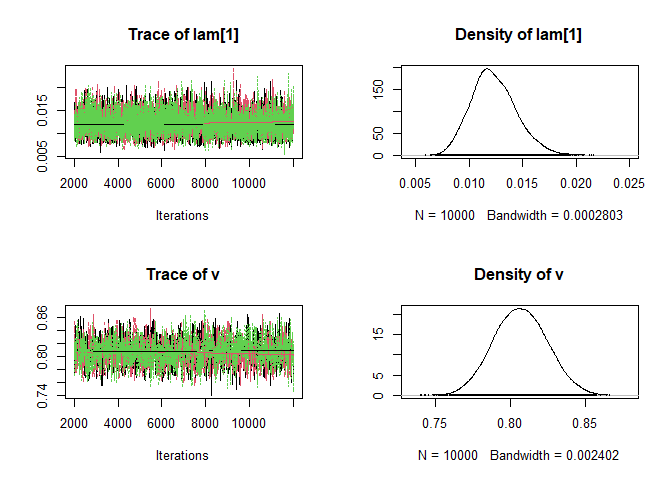
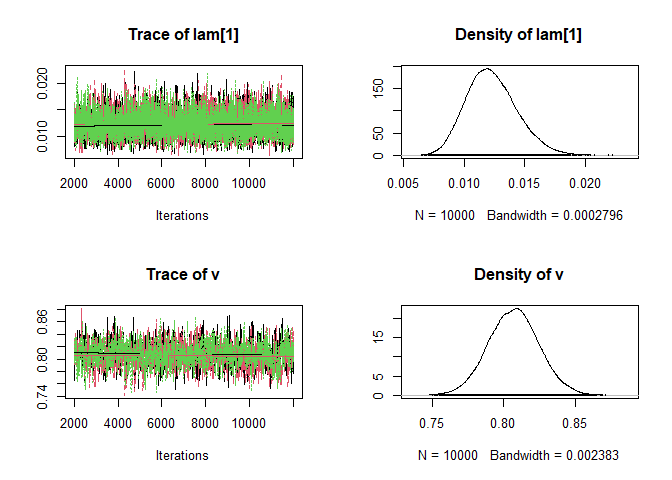
Third update.

diff --git a/website_traffic_analysis.md b/website_traffic_analysis.md
@@ -10,6 +10,8 @@ header-includes:
   - \usepackage{fontspec}
   - \newfontfamily\urlfont{Roboto Mono}
 bibliography: bayesianbib.bib
+link_citations: true
+
 ---
 
 
@@ -95,7 +97,7 @@ The mean as well as the standard deviation of the residuals for the 5 continents
 
 
 ```
-## Mean residuals: 7.408088 3.143734 -2.709144 19.73206 -21.34391
+## Mean residuals: 6.7456 3.210117 -2.748751 19.64922 -21.32905
 ```
 
 ```
@@ -112,13 +114,13 @@ We also used the posterior samples to get Monte Carlo estimates of the mean aver
 
 ```
 ##           0%           5%          10%          15%          20%          25% 
-## 4.925311e+00 5.226436e+01 6.729470e+01 7.889940e+01 8.867935e+01 9.797797e+01 
+## 2.024426e+00 5.035039e+01 6.479379e+01 7.679248e+01 8.722426e+01 9.669675e+01 
 ##          30%          35%          40%          45%          50%          55% 
-## 1.072029e+02 1.164754e+02 1.259678e+02 1.358672e+02 1.460714e+02 1.576500e+02 
+## 1.060290e+02 1.154505e+02 1.248197e+02 1.354065e+02 1.461793e+02 1.579984e+02 
 ##          60%          65%          70%          75%          80%          85% 
-## 1.708787e+02 1.861141e+02 2.047261e+02 2.292162e+02 2.629486e+02 3.134105e+02 
+## 1.716290e+02 1.875620e+02 2.064360e+02 2.320105e+02 2.648734e+02 3.167635e+02 
 ##          90%          95%         100% 
-## 4.017439e+02 6.420759e+02 1.101838e+10
+## 4.063484e+02 6.638312e+02 1.771012e+14
 ```
 
 ![](website_traffic_analysis_files/figure-html/unnamed-chunk-11-1.png)<!-- -->
@@ -155,7 +157,7 @@ As was the case for the Weibull model, convergence was observed after 1e4 iterat
 
 
 ```
-## Mean residuals: 3.107182 0.5004386 0.2314226 4.925634 0.8873818
+## Mean residuals: 2.710376 0.5501907 0.2144954 5.041632 0.7909642
 ```
 
 ```
@@ -167,13 +169,13 @@ The posterior samples were again drawn to get Monte Carlo estimates of the mean 
 
 ```
 ##           0%           5%          10%          15%          20%          25% 
-## 2.461246e-70 3.950732e-12 1.875661e-08 2.382546e-06 6.067019e-05 6.312026e-04 
+## 1.295984e-63 4.340635e-12 1.969322e-08 2.154042e-06 5.126770e-05 6.465336e-04 
 ##          30%          35%          40%          45%          50%          55% 
-## 4.814906e-03 2.358775e-02 9.837904e-02 3.422679e-01 1.021179e+00 2.651651e+00 
+## 4.697776e-03 2.423898e-02 9.779947e-02 3.353844e-01 9.990864e-01 2.555149e+00 
 ##          60%          65%          70%          75%          80%          85% 
-## 6.124312e+00 1.322977e+01 2.629759e+01 5.067304e+01 9.773452e+01 1.870319e+02 
+## 6.014731e+00 1.315230e+01 2.631249e+01 5.220144e+01 9.817213e+01 1.850762e+02 
 ##          90%          95%         100% 
-## 3.584605e+02 7.673775e+02 8.125360e+03
+## 3.592999e+02 7.677039e+02 7.630786e+03
 ```
 
 ![](website_traffic_analysis_files/figure-html/unnamed-chunk-15-1.png)<!-- -->
@@ -193,36 +195,36 @@ The following is the summary of the posterior distribution for the Weibull model
 ##    plus standard error of the mean:
 ## 
 ##             Mean        SD  Naive SE Time-series SE
-## lam[1]   0.01233  0.002106 1.216e-05      4.207e-05
-## lam[2]   0.03156  0.003229 1.864e-05      8.646e-05
-## lam[3]   0.02501  0.002474 1.428e-05      6.940e-05
-## lam[4]   0.01287  0.001847 1.067e-05      4.383e-05
-## lam[5]   0.02461  0.006270 3.620e-05      7.416e-05
-## mu[1]  270.37373 45.117337 2.605e-01      2.779e-01
-## mu[2]   82.37757  5.147051 2.972e-02      3.039e-02
-## mu[3]  109.78451  5.873736 3.391e-02      3.288e-02
-## mu[4]  253.11277 29.080277 1.679e-01      1.713e-01
-## mu[5]  121.05819 37.942140 2.191e-01      2.463e-01
-## mu0      0.02211  0.006024 3.478e-05      1.178e-04
-## sig0     0.01105  0.006269 3.619e-05      1.343e-04
-## v        0.80675  0.017811 1.028e-04      5.305e-04
+## lam[1]   0.01228  0.002079 1.201e-05      4.142e-05
+## lam[2]   0.03154  0.003208 1.852e-05      8.851e-05
+## lam[3]   0.02497  0.002446 1.412e-05      6.877e-05
+## lam[4]   0.01285  0.001845 1.065e-05      4.379e-05
+## lam[5]   0.02460  0.006289 3.631e-05      7.923e-05
+## mu[1]  271.03622 45.246642 2.612e-01      2.767e-01
+## mu[2]   82.31119  5.163291 2.981e-02      3.031e-02
+## mu[3]  109.82412  5.898666 3.406e-02      3.378e-02
+## mu[4]  253.19560 29.311352 1.692e-01      1.738e-01
+## mu[5]  121.04334 38.219823 2.207e-01      2.454e-01
+## mu0      0.02256  0.007414 4.280e-05      2.579e-04
+## sig0     0.01179  0.008570 4.948e-05      3.169e-04
+## v        0.80700  0.017671 1.020e-04      5.336e-04
 ## 
 ## 2. Quantiles for each variable:
 ## 
 ##             2.5%       25%       50%       75%     97.5%
-## lam[1] 8.627e-03 1.087e-02   0.01216   0.01365   0.01685
-## lam[2] 2.565e-02 2.928e-02   0.03142   0.03369   0.03831
-## lam[3] 2.045e-02 2.327e-02   0.02494   0.02666   0.03008
-## lam[4] 9.619e-03 1.156e-02   0.01276   0.01404   0.01677
-## lam[5] 1.418e-02 2.018e-02   0.02396   0.02841   0.03866
-## mu[1]  1.948e+02 2.386e+02 266.03557 296.85702 370.52671
-## mu[2]  7.289e+01 7.885e+01  82.18561  85.75120  92.96505
-## mu[3]  9.893e+01 1.057e+02 109.56840 113.63023 121.72710
-## mu[4]  2.020e+02 2.326e+02 250.95725 271.22002 315.82131
-## mu[5]  6.563e+01 9.426e+01 114.83037 140.78799 211.55330
-## mu0    1.306e-02 1.825e-02   0.02129   0.02490   0.03662
-## sig0   4.762e-03 7.258e-03   0.00943   0.01278   0.02739
-## v      7.725e-01 7.944e-01   0.80659   0.81893   0.84200
+## lam[1] 8.649e-03 1.081e-02 1.212e-02   0.01359   0.01674
+## lam[2] 2.569e-02 2.931e-02 3.140e-02   0.03359   0.03825
+## lam[3] 2.044e-02 2.327e-02 2.487e-02   0.02656   0.03008
+## lam[4] 9.535e-03 1.155e-02 1.273e-02   0.01402   0.01676
+## lam[5] 1.417e-02 2.016e-02 2.397e-02   0.02834   0.03854
+## mu[1]  1.969e+02 2.389e+02 2.661e+02 297.54176 373.14525
+## mu[2]  7.283e+01 7.873e+01 8.212e+01  85.67507  92.95117
+## mu[3]  9.882e+01 1.058e+02 1.096e+02 113.65826 121.82041
+## mu[4]  2.017e+02 2.326e+02 2.509e+02 271.45022 316.73872
+## mu[5]  6.586e+01 9.426e+01 1.146e+02 140.68540 212.90638
+## mu0    1.297e-02 1.828e-02 2.142e-02   0.02523   0.03869
+## sig0   4.823e-03 7.372e-03 9.664e-03   0.01337   0.03114
+## v      7.725e-01 7.950e-01 8.070e-01   0.81875   0.84231
 ```
 
 Here is the summary of the posterior distribution for the normal model.
@@ -239,34 +241,34 @@ Here is the summary of the posterior distribution for the normal model.
 ##    plus standard error of the mean:
 ## 
 ##          Mean     SD Naive SE Time-series SE
-## mu[1]  274.67 26.659  0.15391        0.19474
-## mu[2]   85.02  6.524  0.03766        0.04803
-## mu[3]  106.84  5.020  0.02898        0.03629
-## mu[4]  267.92 34.250  0.19774        0.24176
-## mu[5]   98.83  9.007  0.05200        0.06496
-## mu0    132.03 11.315  0.06533        0.08324
-## sig[1] 195.17 11.129  0.06425        0.06479
-## sig[2] 128.97  4.098  0.02366        0.02366
-## sig[3] 117.49  3.287  0.01898        0.01898
-## sig[4] 368.09 17.825  0.10291        0.10291
-## sig[5]  33.88  2.266  0.01308        0.01324
-## sig0   420.41 63.298  0.36545        0.48126
+## mu[1]  275.07 26.568  0.15339        0.19527
+## mu[2]   84.97  6.543  0.03778        0.04835
+## mu[3]  106.86  5.007  0.02891        0.03673
+## mu[4]  267.80 34.547  0.19946        0.24982
+## mu[5]   98.92  9.088  0.05247        0.06604
+## mu0    132.11 11.446  0.06608        0.08474
+## sig[1] 195.22 11.238  0.06488        0.06577
+## sig[2] 128.91  4.080  0.02355        0.02355
+## sig[3] 117.48  3.265  0.01885        0.01859
+## sig[4] 368.21 17.890  0.10329        0.09914
+## sig[5]  33.89  2.277  0.01315        0.01335
+## sig0   421.82 63.597  0.36718        0.47980
 ## 
 ## 2. Quantiles for each variable:
 ## 
 ##          2.5%    25%    50%    75%  97.5%
-## mu[1]  221.93 256.71 274.69 292.67 326.76
-## mu[2]   72.20  80.66  85.00  89.44  97.89
-## mu[3]   96.86 103.47 106.80 110.22 116.73
-## mu[4]  200.77 244.92 267.85 291.00 334.76
-## mu[5]   81.09  92.77  98.89 104.79 116.60
-## mu0    110.79 124.23 131.70 139.58 155.04
-## sig[1] 174.85 187.37 194.59 202.40 218.30
-## sig[2] 121.20 126.19 128.84 131.65 137.36
-## sig[3] 111.26 115.22 117.42 119.66 124.18
-## sig[4] 335.08 355.74 367.31 379.57 405.03
-## sig[5]  29.81  32.30  33.73  35.32  38.71
-## sig0   305.41 376.11 417.27 460.90 553.64
+## mu[1]  222.13 257.27 275.08 293.11 326.81
+## mu[2]   72.17  80.56  85.00  89.35  97.85
+## mu[3]   96.90 103.53 106.86 110.25 116.51
+## mu[4]  199.66 244.43 267.94 291.39 334.82
+## mu[5]   81.15  92.83  98.86 105.03 116.90
+## mu0    110.67 124.19 131.69 139.73 155.39
+## sig[1] 174.85 187.37 194.71 202.50 218.94
+## sig[2] 121.27 126.11 128.82 131.60 137.21
+## sig[3] 111.32 115.23 117.41 119.65 124.08
+## sig[4] 335.52 355.78 367.39 379.82 405.83
+## sig[5]  29.78  32.28  33.76  35.32  38.69
+## sig0   307.08 377.04 418.69 462.67 555.65
 ```
 
 The mean values of the posterior average session durations for each of the 5 continents in the Weibull model appeared to be fairly similar to the corresponding values in the normal model. However, while the residual errors for the normal model were smaller than those for the Weibull model, the DIC value of 12484 for the Weibull model  was smaller than the DIC value of 14821 for the normal model, suggesting that the Weibull model may be preferable to the normal model. 
